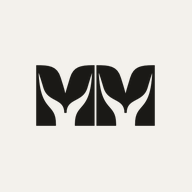
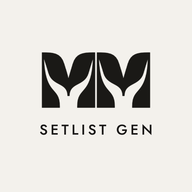
Ícono y nombre de la app: Setlist Gen
Claude-Session: https://claude.ai/code/session_01HK3Wai1yaocMCFxTbbLUMx

Changed region(s): [[0.1875, 0.25, 0.8125, 0.7188]]

diff --git a/index.html b/index.html
@@ -5,7 +5,7 @@
 <meta name="viewport" content="width=device-width, initial-scale=1, viewport-fit=cover">
 <meta name="theme-color" content="#161514">
 <meta name="apple-mobile-web-app-capable" content="yes">
-<meta name="apple-mobile-web-app-title" content="Setlists">
+<meta name="apple-mobile-web-app-title" content="Setlist Gen">
 <link rel="manifest" href="manifest.webmanifest">
 <link rel="apple-touch-icon" href="icon-192.png">
 <style>:root{padding-block:env(safe-area-inset-top,0px) env(safe-area-inset-bottom,0px)}body{margin:0}[hidden]{display:none!important}img{max-width:100%}</style>

diff --git a/sw.js b/sw.js
@@ -1,6 +1,6 @@
 // Guarda la app en el teléfono para que funcione sin internet.
 // La página se pide primero a la red (así llegan los cambios) y, si no hay conexión, sale de la copia guardada.
-const CACHE = "masha-setlists-202610300436";
+const CACHE = "masha-setlists-202610300437";
 const FILES = ["./", "./index.html", "./manifest.webmanifest", "./icon-192.png", "./icon-512.png"];
 
 self.addEventListener("install", e => { e.waitUntil(caches.open(CACHE).then(c => c.addAll(FILES))); self.skipWaiting(); });

diff --git a/build-app.py b/build-app.py
@@ -18,7 +18,7 @@ head = """<!doctype html>
 <meta name="viewport" content="width=device-width, initial-scale=1, viewport-fit=cover">
 <meta name="theme-color" content="#161514">
 <meta name="apple-mobile-web-app-capable" content="yes">
-<meta name="apple-mobile-web-app-title" content="Setlists">
+<meta name="apple-mobile-web-app-title" content="Setlist Gen">
 <link rel="manifest" href="manifest.webmanifest">
 <link rel="apple-touch-icon" href="icon-192.png">
 <style>:root{padding-block:env(safe-area-inset-top,0px) env(safe-area-inset-bottom,0px)}body{margin:0}[hidden]{display:none!important}img{max-width:100%}</style>
